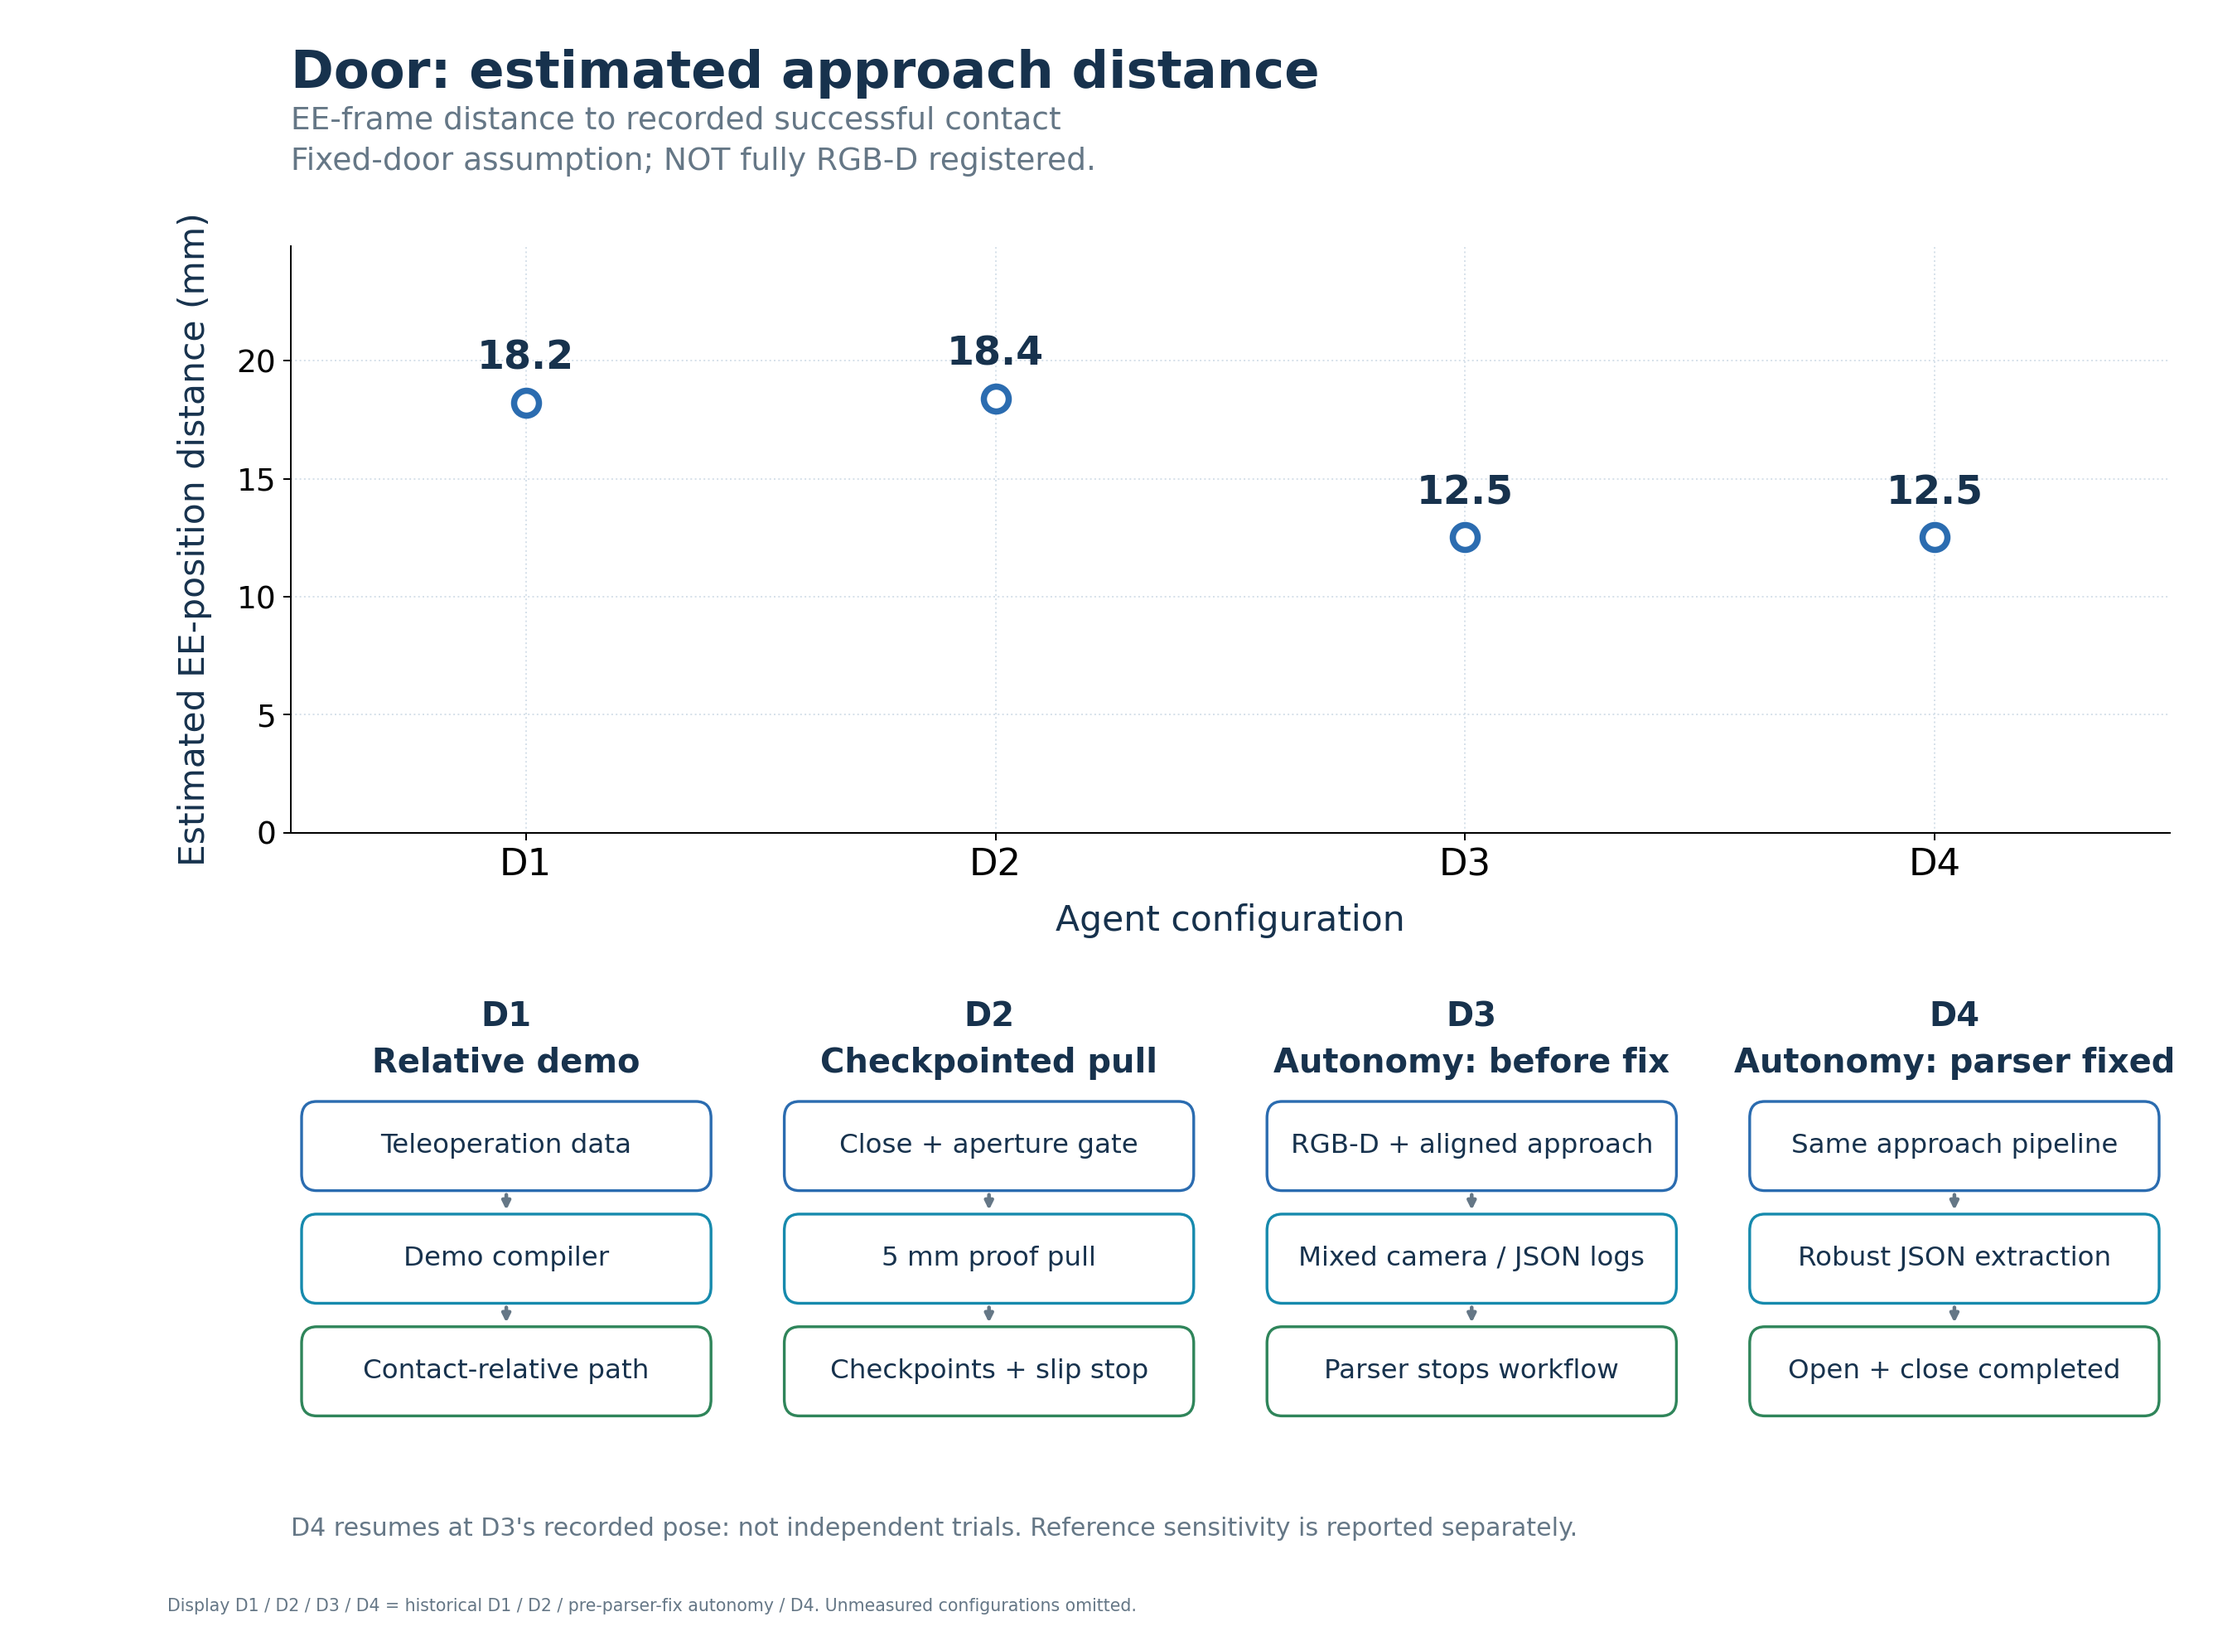
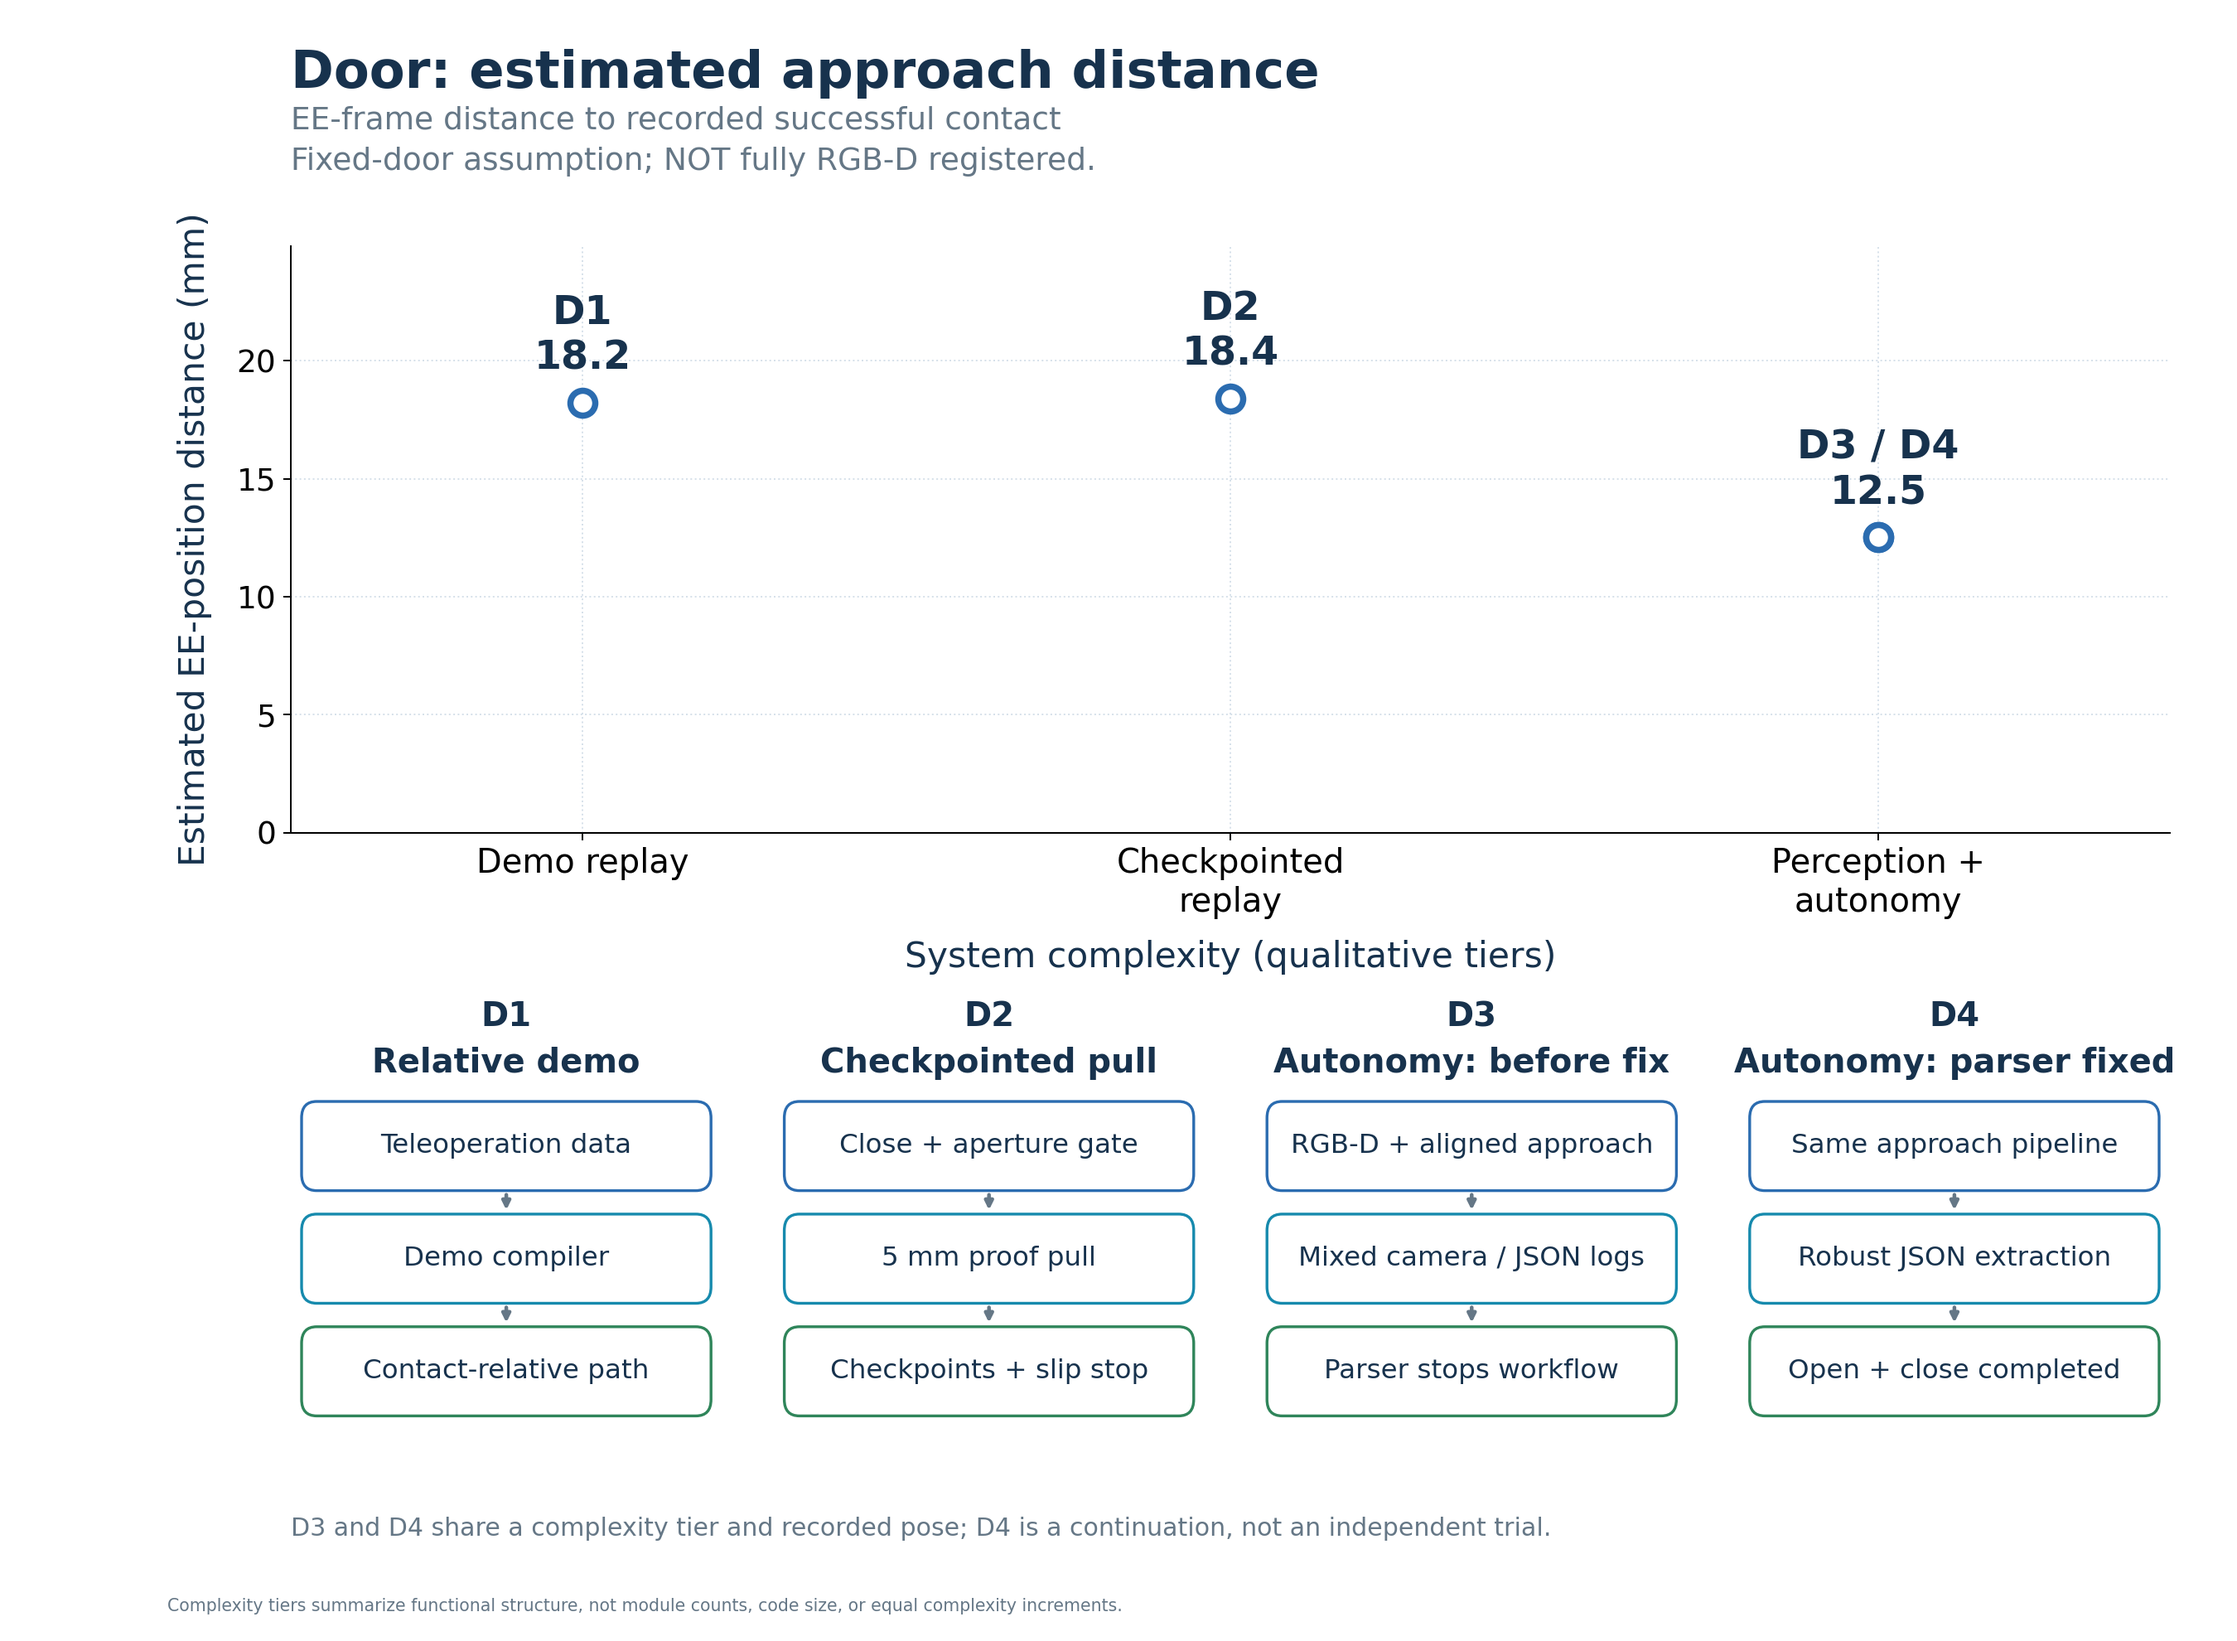
Plot Door approaches against explicit qualitative complexity tiers

diff --git a/docs/generate_code_learning_tool_graph_figure.py b/docs/generate_code_learning_tool_graph_figure.py
@@ -480,6 +480,15 @@ def door_approach_rows(report):
             for i, r in enumerate(measured, 1)]
 
 
+def door_complexity_position(source_stage):
+    """Qualitative functional tiers, not a measured code/module count.
+
+    A parser repair does not introduce another perception/control layer.
+    Positions are categorical layout coordinates, not numerical complexity.
+    """
+    return {"D1": 0, "D2": 1, "D4_pre_parser_fix": 2, "D4": 2}[source_stage]
+
+
 def make_door_approach_figure(*, distance=False):
     report = load_json("docs/assets/code_as_learning_machine/door_first_approach_report.json")
     validate_available_source_hashes(report)
@@ -501,26 +510,34 @@ def make_door_approach_figure(*, distance=False):
                 "Red-label position vs. successful-demo mean\nLower is closer; not a direct grasp-pose measurement.")
     fig.text(0.13, 0.914, subtitle,
              fontsize=15, color=GRAY, linespacing=1.5, va="center")
-    labels = [r["stage"] for r in rows]
+    positions = [door_complexity_position(r["source_stage"]) for r in rows]
     ax = fig.add_subplot(grid[0, :])
     ax.spines[["top", "right"]].set_visible(False)
-    ax.set_xlim(-0.5, len(rows)-0.5)
-    ax.set_xticks(range(len(rows)), labels, fontsize=18)
+    ax.set_xlim(-0.45, 2.45)
+    ax.set_xticks([0, 1, 2], ["Demo replay", "Checkpointed\nreplay", "Perception +\nautonomy"], fontsize=16)
     ax.tick_params(axis="y", labelsize=15)
-    ax.set_xlabel("Agent configuration", color=NAVY, fontsize=17, labelpad=10)
+    ax.set_xlabel("System complexity (qualitative tiers)", color=NAVY, fontsize=17, labelpad=10)
     ax.set_ylabel("Estimated EE-position distance (mm)" if distance else "Normalized image-position error", color=NAVY, fontsize=17, labelpad=12)
     ax.grid(color=GRID, linestyle=":")
     values = [r["distance_mm"] for r in distance_rows] if distance else [r["uv_error"] for r in rows]
     ax.set_ylim(0, np.nanmax(values) * 1.35)
     # Markers only: missing configurations and single observations must not
     # become an interpolated or apparently smooth learning curve.
-    ax.plot(range(len(rows)), values, linestyle="none", marker="o", color=BLUE,
+    ax.plot(positions, values, linestyle="none", marker="o", color=BLUE,
             markersize=12, markerfacecolor="white", markeredgewidth=3,
             label="Earlier successful contact reference")
     # Keep alternate-reference sensitivity in the evidence report and manuscript
     # table; the main figure shows only the primary reference.
-    for index, value in enumerate(values):
-        ax.annotate(f"{value:.1f}" if distance else f"{value:.3f}", (index, value), xytext=(0, 16),
+    # Preserve coincident data rather than jittering the complexity or distance.
+    grouped = {}
+    for row, x, value in zip(rows, positions, values):
+        grouped.setdefault((x, value), []).append(row["stage"])
+    for (x, value), stages in grouped.items():
+        offset = (0, 16)
+        if not distance and x == 2:
+            offset = (-52, -4) if stages == ["D3"] else (52, 16)
+        label = " / ".join(stages) + "\n" + (f"{value:.1f}" if distance else f"{value:.3f}")
+        ax.annotate(label, (x, value), xytext=offset,
                     textcoords="offset points", ha="center", color=NAVY, fontsize=19, weight="bold")
     graphs = {
         "D1": ("Relative demo", ("Teleoperation data", "Demo compiler", "Contact-relative path")),
@@ -541,11 +558,10 @@ def make_door_approach_figure(*, distance=False):
                  edge=(BLUE, TEAL, GREEN)[i])
             if i < 2:
                 arrow(panel, (0.5, y-0.015), (0.5, y-0.065), width=1.8)
-    fig.text(0.13, 0.064, "D4 resumes at D3's recorded pose: not independent trials. Reference sensitivity is reported separately." if distance else
-             "D4 resumes at D3's pose; the parser fix enables completion, not better aiming.",
+    fig.text(0.13, 0.064, "D3 and D4 share a complexity tier and recorded pose; D4 is a continuation, not an independent trial.",
              color=GRAY, fontsize=12)
     return finish_figure(fig, stem="door_first_approach_distance" if distance else "door_first_approach", footnote=
-                         "Display D1 / D2 / D3 / D4 = historical D1 / D2 / pre-parser-fix autonomy / D4. Unmeasured configurations omitted.")
+                         "Complexity tiers summarize functional structure, not module counts, code size, or equal complexity increments.")
 
 
 def make_door_approach_audit():

diff --git a/tests/test_door_first_approach_evaluation.py b/tests/test_door_first_approach_evaluation.py
@@ -33,3 +33,15 @@ def test_missing_and_selected_run_boundaries_are_explicit():
     for stage in ("D1", "D2", "D4_pre_parser_fix", "D4"):
         assert rows[stage]["boundary_evidence"]
         assert "visual_alignment" not in rows[stage]["motion"]
+
+
+def test_complexity_tiers_do_not_promote_parser_repairs_or_unknown_stages():
+    figure_path = path.parent / "generate_code_learning_tool_graph_figure.py"
+    figure_spec = importlib.util.spec_from_file_location("door_paper_figures", figure_path)
+    figures = importlib.util.module_from_spec(figure_spec)
+    figure_spec.loader.exec_module(figures)
+    position = figures.door_complexity_position
+    assert position("D1") < position("D2") < position("D4_pre_parser_fix")
+    assert position("D4_pre_parser_fix") == position("D4")
+    with pytest.raises(KeyError):
+        position("unmeasured_new_configuration")

diff --git a/docs/CODE_AS_A_LEARNING_MACHINE_MANUSCRIPT.md b/docs/CODE_AS_A_LEARNING_MACHINE_MANUSCRIPT.md
@@ -1402,6 +1402,17 @@ that reached an open endpoint. The historical endpoint figure remains
 unchanged; unmeasured configurations are omitted from the approach display.
 The added configuration change concerns orchestration, not approach geometry.
 
+The horizontal axis of the approach figures groups these configurations into
+three **qualitative system-complexity tiers**: demonstrated replay (D1),
+checkpointed replay (D2), and perception-assisted autonomous orchestration
+(D3 and D4). These tiers summarize functional structure; they are not measured
+module counts, lines of code, cyclomatic complexity, or equal-sized complexity
+increments. The parser repair does not introduce another perception/control
+layer, so D3 and D4 occupy the same horizontal position. Their distance points
+also coincide and are labeled jointly. Repeated corrections do not acquire a
+higher complexity merely because they occur later. This remains a descriptive
+comparison, not evidence that complexity itself causes improved performance.
+
 The fixed evaluator detects the red EYELA label on the rigid door parent in
 the right-wrist image. Its target is the existing compiler's mean feature at
 the close frame of twelve verified successful teleoperation demonstrations.
